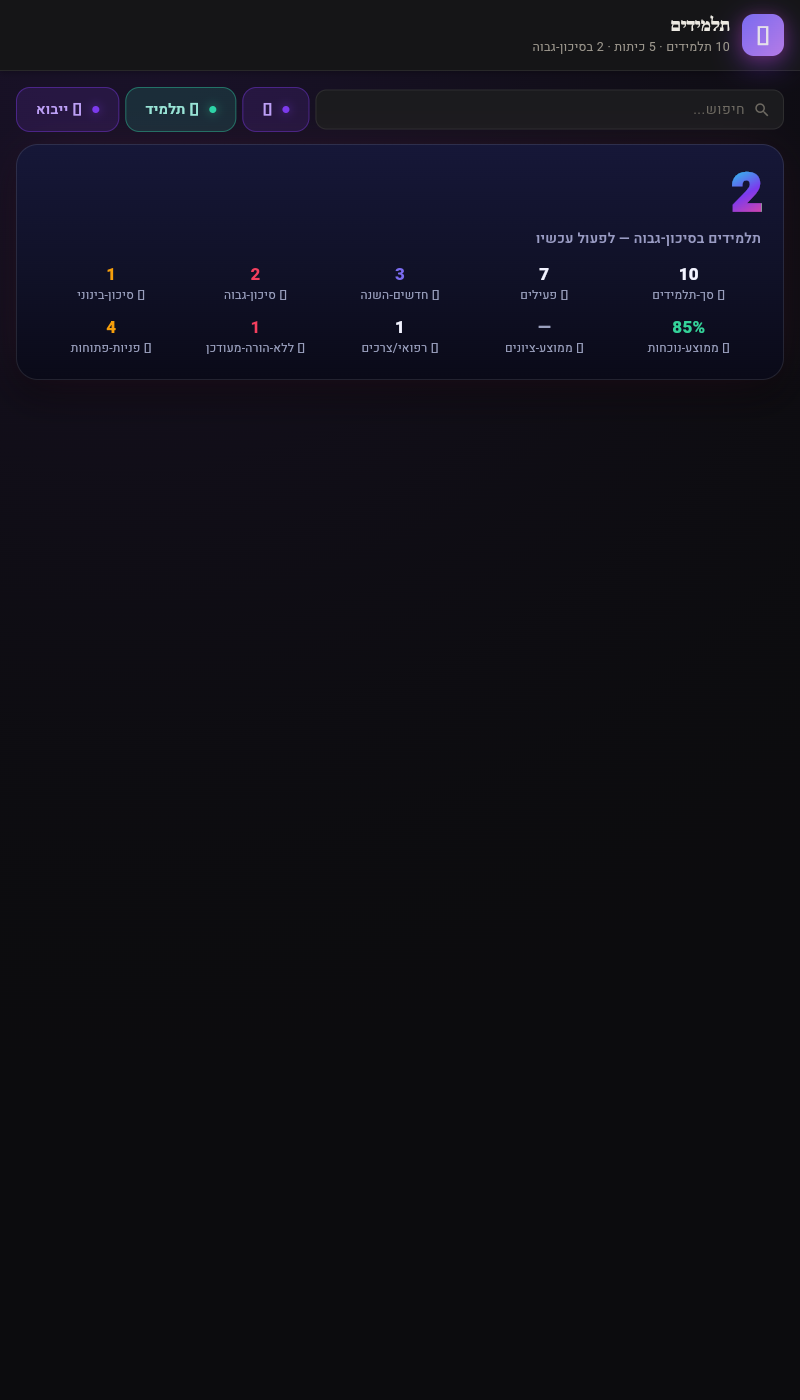
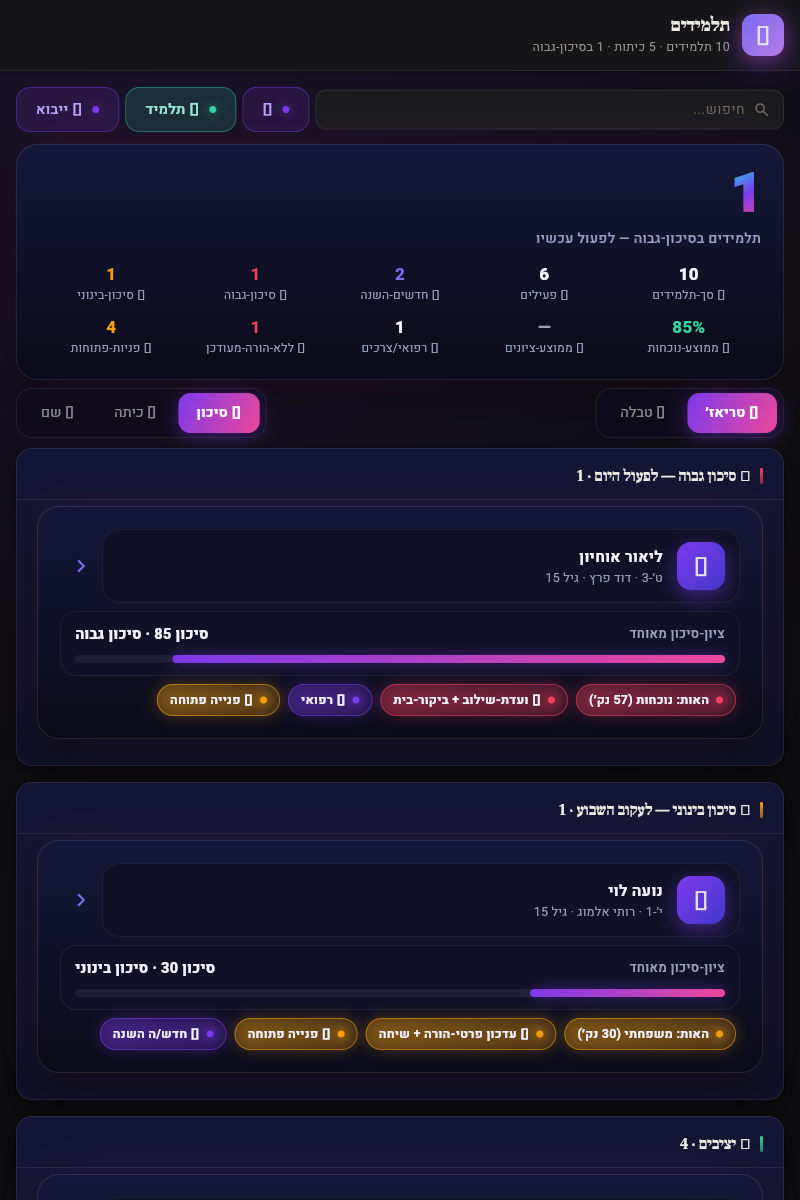
גל 2 · תלמידים · טריאז׳-לפי-סיכון + טבלה מונחית-חוזה (18 עמודות · מקום-שמור) + דירוג — DsSection⊕GradientCard⊕MediaRow⊕StatRow⊕StatusChip⊕DsTable⊕SegmentedSwitch · nameSortKey⊕gradeIndex⊕normSearch
תיקוני-רנדר (THE-WAY §6, נתפסו בצילום ולא בקומפילציה): רשומת-המתנה (wait) נספרה כפעילה ⇒ סטטוס 'ממתין/ה' לארכיון ·
אות-נוכחות על 3 מפגשים נתן 40 נק׳ מחיסור-אחד ⇒ minSample=5. columnDefs: photo·grades = מקום-שמור (מאירים כשיגיע נתון).

Claude-Session: https://claude.ai/code/session_01TxEB6UJGSPpcuzhChbuNDK

Protocol-Ran: 5f853626afea2eae

diff --git a/new/dart-gen-bs/schoolos_students.dart b/new/dart-gen-bs/schoolos_students.dart
@@ -26,6 +26,14 @@ import '../dart-maor/task-overdue.dart'; // משימה באיחור (WorkTask.du
 import '../dart-maor/cockpit-days-since.dart'; // ימים-מאז (iso→today)
 import '../dart-maor/format-israeli-phone.dart'; // טלפון-הורה מעוצב
 import '../dart-maor/fmt-date.dart'; // תאריך dd/mm/yyyy
+import '../dart-ui-bs/ds/ds_table.dart'; // טבלה-אמיתית (labels+rows, מיון-בלחיצה) — לא DataGrid המזייף
+import '../dart-ui-bs/premium/actions/segmented_switch.dart'; // בורר-מבט/מיון מבוקר
+import '../dart-ui-bs/premium/lists/media_row.dart'; // שורת-תלמיד: glyph+title+subtitle
+import '../dart-ui-bs/premium/lists/stat_row.dart'; // בר-סיכון: label+value+fraction
+import '../dart-ui-bs/premium/feedback/status_chip.dart'; // שבב: אות-מוביל · פעולה · דגל · סטטוס
+import '../dart-ui-bs/premium/feedback/empty_state.dart'; // מצב "אין-תלמידים/אין-תוצאות"
+import '../dart-maor/name-sort-key.dart'; // מיון-לפי-שם (מנורמל, בלי תארים)
+import '../dart-maor/norm-search.dart'; // נרמול-עברי (סופיות/ניקוד) — שקע ל-nameSortKey ולחיפוש
 
 const _acc = DsTokens.accent;
 // פיגמנטים מוזרקים לאטומי-מדף טהורים (חוק-6: צבע=הצבה, לא ציור)
@@ -236,6 +244,7 @@ class _StuData {
     final st = e['status'];
     if (st == 'paused') return 'הוקפא';
     if (st == 'ended') return s['grade'] == 'יב' ? 'בוגר' : 'עזב';
+    if (st == 'wait') return 'ממתין/ה'; // רשימת-המתנה (Enrollment.status=wait) — עדיין לא תלמיד/ה פעיל/ה
     return 'פעיל';
   }
   static bool isActive(Map<String, dynamic> s) => status(s) == 'פעיל';
@@ -298,9 +307,10 @@ class _StuData {
   //   אותות עם מקור-אמת: נוכחות (presents/absences) · מגמה (trendFromScan) · משפחתי (Family+WorkTask).
   //   מקום-שמור (אפס-זיוף): ציונים (s['grades'] מפה מקצוע⇒ציון) · התנהגות (s['behavior'] אירועים/חודש) · חברתי-רגשי (s['social'] 0..1).
   //   כשיגיע נתון לרשומה — האות מאיר לבד, אפס-שינוי-קוד (מבחן-הקונכייה).
+  static const minSample = 5; // אות-נוכחות דורש ≥5 מפגשים (נתפס ברנדר: תלמידה חדשה עם 3 מפגשים קיבלה 40 נק׳ מחיסור-אחד)
   static double? _attN(Map<String, dynamic> s) {
     final r = attendance(s);
-    if (r == null) return null;
+    if (r == null || presents(s) + absences(s) < minSample) return null;
     final base = clampScale((0.92 - r) / 0.25, 0.0, 1.0).toDouble(); // <92% מתחיל לעלות · 67% = מלא
     final ns = noshow(s) >= 2 ? 0.6 : 0.0; // אי-הופעות חוזרות = אות עצמאי
     return base > ns ? base : ns;
@@ -394,6 +404,71 @@ class _StuData {
   static List<List<Object>> byClass() => countBy(active, (s) => className(s as Map<String, dynamic>));
   static int daysSince(String iso) => cockpitDaysSince(iso, today).toInt();
   static String fmt(String? iso) => fmtDate(iso);
+
+  // ─── מיון (איתור·דירוג): סיכון-יורד · כיתה (gradeIndex⊕שם-כיתה) · שם (nameSortKey⊕normSearch) ───
+  static const Map<String, String> _finals = {'k1': 'כ', 'k2': 'מ', 'k3': 'נ', 'k4': 'פ', 'k5': 'צ'};
+  static String norm(dynamic q) => normSearch(q, _finals);
+  static String sortKey(Map<String, dynamic> s) => nameSortKey(s['name'], norm, const <String>{});
+  static List<Map<String, dynamic>> sorted(List<Map<String, dynamic>> xs, int mode) {
+    final out = [...xs];
+    if (mode == 1) {
+      out.sort((a, b) { final c = gradeIdx(a).compareTo(gradeIdx(b)); return c != 0 ? c : className(a).compareTo(className(b)) != 0 ? className(a).compareTo(className(b)) : sortKey(a).compareTo(sortKey(b)); });
+    } else if (mode == 2) {
+      out.sort((a, b) => sortKey(a).compareTo(sortKey(b)));
+    } else {
+      out.sort((a, b) => risk(b).compareTo(risk(a)));
+    }
+    return out;
+  }
+
+  // ─── דגלים (מפרט: צרכים/רגישות/רפואי): רפואי ⇐ Member.health (מקור-אמת) · צרכים/רגישות ⇐ פנקס-דגלים (פעולה "הוסף-דגל") ───
+  static final Map<String, List<String>> flagLedger = {};
+  static List<String> flags(Map<String, dynamic> s) => [
+        if ('${s['health'] ?? ''}'.isNotEmpty) '🩺 רפואי',
+        ...(flagLedger[s['id']] ?? const []),
+        if (s['needs'] != null) '♿ צרכים', // מקום-שמור: שדה-צרכים ברשומה
+      ];
+  // עדכון-אחרון (נגזר מטבעת-האודיט: הרשומה האחרונה שמזכירה את התלמיד; אין updatedAt בסכמה)
+  static List<Map<String, dynamic>> audit() => (db['audit'] as List).cast<Map<String, dynamic>>();
+  static String lastUpdate(Map<String, dynamic> s) {
+    String best = '';
+    for (final a in audit()) { if ('${a['what']}'.startsWith('${s['id']} ') && '${a['at']}'.compareTo(best) > 0) best = '${a['at']}'; }
+    return best.isEmpty ? '—' : fmt(best.substring(0, 10));
+  }
+  static String trendArrow(Map<String, dynamic> s) { final t = trend90(s); return t['dir'] == 'down' ? '↓ ${t['pct']}%' : t['dir'] == 'up' ? '↑ +${t['pct']}%' : '→'; }
+  static String maskId(String? id) => (id == null || id.isEmpty) ? '—' : '•••••${id.substring(id.length - 4)}'; // ת״ז מוסתרת (ברירת-מחדל; חשיפה = הרשאה)
+
+  // ═══ חוזה-עמודות · מקום-שמור (חוק-7 · מבחן-הקונכייה) — 18 עמודות-המפרט כשקעי-דאטה ═══
+  //   נגזרת(get) = תמיד-מוצגת · שדה(key) = מוארת רק כשרשומה כלשהי נושאת ערך (חסר ⇒ שקט). fmt = עיצוב-ערך אופציונלי.
+  //   הוספת שדה לרשומה (photo/grades/…) ⇒ העמודה מאירה לבד, אפס-שינוי-קוד.
+  static final List<Map<String, Object?>> columnDefs = <Map<String, Object?>>[
+    {'key': 'photo', 'label': 'תמונה'},                                                   // מקום-שמור (ImageProvider/URL)
+    {'label': 'שם-מלא', 'get': (Map<String, dynamic> s) => '${s['name']}'},
+    {'label': 'מס׳', 'get': (Map<String, dynamic> s) => '${s['id']}'},
+    {'label': 'ת״ז', 'get': (Map<String, dynamic> s) => maskId(s['idNum'] as String?)}, // מוסתר-פר-הרשאה
+    {'label': 'כיתה', 'get': (Map<String, dynamic> s) => className(s)},
+    {'label': 'מחנך/ת', 'get': (Map<String, dynamic> s) => teacherName(s)},
+    {'label': 'לידה/גיל', 'get': (Map<String, dynamic> s) => '${fmt(s['birth'] as String?)} · ${age(s) ?? '—'}'},
+    {'label': 'מין', 'get': (Map<String, dynamic> s) => s['gender'] == 'f' ? 'נ' : s['gender'] == 'm' ? 'ז' : '—'},
+    {'label': 'סטטוס', 'get': (Map<String, dynamic> s) => status(s)},
+    {'label': 'סיכון', 'get': (Map<String, dynamic> s) => '${risk(s)}'},
+    {'label': 'נוכחות%', 'get': (Map<String, dynamic> s) => attendance(s) == null ? '—' : '${attendancePct(s)}'},
+    {'key': 'grades', 'label': 'ממוצע-ציונים', 'fmt': (Object? g) => g is Map && g.isNotEmpty ? '${(grandTotal(g.values.toList(), (v) => v as num) / g.length).round()}' : '—'}, // מקום-שמור
+    {'label': 'מגמה', 'get': (Map<String, dynamic> s) => trendArrow(s)},
+    {'label': 'דגלים', 'get': (Map<String, dynamic> s) => flags(s).isEmpty ? '—' : flags(s).join(' ')},
+    {'label': 'הורה+טלפון', 'get': (Map<String, dynamic> s) => parentMissing(s) ? '${parentName(s)} · ⛔ אין טלפון' : '${parentName(s)} · ${parentPhone(s)}'},
+    {'label': 'הצטרפות', 'get': (Map<String, dynamic> s) => fmt(mainEnrollment(s)?['enrolledAt'] as String?)},
+    {'label': 'פנייה-פתוחה', 'get': (Map<String, dynamic> s) => hasOpenTicket(s) ? '📨 ${openTasksOf(s).length}' : '—'},
+    {'label': 'עדכון-אחרון', 'get': (Map<String, dynamic> s) => lastUpdate(s)},
+  ];
+  static bool colShown(Map<String, Object?> c, List<Map<String, dynamic>> rows) =>
+      c['get'] != null || rows.any((s) => s[c['key']] != null && '${s[c['key']]}'.trim().isNotEmpty);
+  static String cell(Map<String, Object?> c, Map<String, dynamic> s) {
+    if (c['get'] != null) return (c['get'] as String Function(Map<String, dynamic>))(s);
+    final v = s[c['key']];
+    if (c['fmt'] != null) return (c['fmt'] as String Function(Object?))(v);
+    return v == null ? '—' : '$v';
+  }
 }
 
 // ═══════════════════════════════════════════════════════════════════════════════════════════
@@ -406,6 +481,8 @@ class StudentsScreen extends StatefulWidget {
 
 class _StudentsScreenState extends State<StudentsScreen> {
   String _q = ''; // איתור (DsSearch)
+  int _mode = 0; // 0=🎯 טריאז' (קיבוץ-פר-סיכון) · 1=📋 טבלה (columnDefs) — SegmentedSwitch→תצוגה
+  int _sort = 0; // 0=סיכון · 1=כיתה · 2=שם — SegmentedSwitch→דירוג
   bool _loading = false; // מצב-מסך שמור: טעינה
   String? _error; // מצב-מסך שמור: שגיאה (מקום-שמור — מאיר כש-fetch נכשל)
 
@@ -421,6 +498,11 @@ class _StudentsScreenState extends State<StudentsScreen> {
   Widget build(BuildContext context) {
     final all = _StuData.active;
     final avgAtt = _StuData.avgAttendance, avgGr = _StuData.avgGrades;
+    // דירוג (מיון-נבחר) ⇒ הנראים (פעילים); לא-פעילים בסקשן-ארכיון נפרד
+    final visible = _StuData.sorted(all, _sort);
+    final inactiveVisible = _StuData.sorted(_StuData.inactive, _sort);
+    final buckets = <int, List<Map<String, dynamic>>>{2: [], 1: [], 0: []};
+    for (final s in visible) { buckets[_StuData.band(s)]!.add(s); }
     return DsScaffold(
       title: 'תלמידים', subtitle: '${_StuData.students.length} תלמידים · ${_StuData.byClass().length} כיתות · ${_StuData.highN} בסיכון-גבוה', icon: '🎓',
       children: [
@@ -457,13 +539,83 @@ class _StudentsScreenState extends State<StudentsScreen> {
           ]),
         ),
         _gap(8),
+        // בורר-מבט (🎯 טריאז' · 📋 טבלה) + בורר-דירוג (סיכון · כיתה · שם) — ארגון = פעולת-יסוד עם אטום משלה
+        Row(children: [
+          SegmentedSwitch(items: const ['🎯 טריאז׳', '📋 טבלה'], selected: _mode, onSelect: (i) => setState(() => _mode = i)),
+          const Spacer(),
+          SegmentedSwitch(items: const ['⚠ סיכון', '🏫 כיתה', '🔤 שם'], selected: _sort, onSelect: (i) => setState(() => _sort = i)),
+        ]),
+        _gap(10),
+        // מצבי-מסך שמורים (טעינה/שגיאה) ⇒ אחרת התוכן: ריק · טבלה · טריאז'
         if (_loading)
           _loadingView()
         else if (_error != null)
-          AlertBanner(glyph: '⚠', tone: 2, message: _error!),
+          AlertBanner(glyph: '⚠', tone: 2, message: _error!)
+        else if (_StuData.students.isEmpty)
+          const Padding(padding: EdgeInsets.only(top: 24), child: EmptyState(glyph: '🎓', message: 'אין תלמידים עדיין — רשום תלמיד ראשון או ייבא'))
+        else if (visible.isEmpty)
+          const Padding(padding: EdgeInsets.only(top: 24), child: EmptyState(glyph: '🔍', message: 'אין תלמידים תואמים לחיפוש/סינון'))
+        else if (_mode == 1)
+          _table(visible)
+        else ...[
+          // טריאז' — פעולת-יסוד "הכרעה" מקבצת פר-band (הדחוף בראש כקבוצה); בתוך כל דלי — סדר-הדירוג הנבחר
+          for (final b in const [2, 1, 0])
+            if (buckets[b]!.isNotEmpty)
+              DsSection(title: '${_secTitle[b]} · ${buckets[b]!.length}', tone: _secTone[b]!, children: [for (final s in buckets[b]!) _row(s)]),
+        ],
+        // מצב-מיוחד: לא-פעילים (הוקפא/עזב/בוגר) — מחוץ לתפעול, גלויים כארכיון
+        if (_mode == 0 && inactiveVisible.isNotEmpty) ...[
+          _gap(10),
+          DsSection(title: '🗂 לא-פעילים · ${inactiveVisible.length}', tone: 0, children: [for (final s in inactiveVisible) _row(s)]),
+        ],
       ],
     );
   }
+
+  static const _secTitle = {2: '🔴 סיכון גבוה — לפעול היום', 1: '🟠 סיכון בינוני — לעקוב השבוע', 0: '🟢 יציבים'};
+  static const _secTone = {2: 2, 1: 3, 0: 1};
+
+  // שורת-תלמיד (טריאז'): זהות (MediaRow) + בר-סיכון (StatRow) + האות-המוביל ⊕ הפעולה-הנכונה-עכשיו (StatusChip×2) + דגלים/סטטוס
+  //   MediaRow בולע קליק (InkWell פנימי) ⇒ כפתור-שברון נפרד כשקע-הפתיחה (לקח-המלאי).
+  Widget _row(Map<String, dynamic> s) {
+    final r = _StuData.risk(s), b = _StuData.band(s), active = _StuData.isActive(s);
+    final tone = b == 2 ? 2 : b == 1 ? 3 : 1;
+    final lead = _StuData.leading(s);
+    final glyph = !active ? '🗂' : b == 2 ? '🔴' : b == 1 ? '🟠' : '🟢';
+    return Padding(
+      padding: const EdgeInsets.only(bottom: 12),
+      child: GradientCard(
+        child: Column(crossAxisAlignment: CrossAxisAlignment.stretch, children: [
+          Row(children: [
+            Expanded(child: MediaRow(glyph: glyph, title: '${s['name']}', subtitle: '${_StuData.className(s)} · ${_StuData.teacherName(s)} · גיל ${_StuData.age(s) ?? '—'}')),
+            IconButton(onPressed: () => _openPanel(s), icon: const Icon(Icons.chevron_left, color: _acc, size: 26), tooltip: 'כרטיס-תלמיד'),
+          ]),
+          _gap(8),
+          StatRow(label: active ? 'ציון-סיכון מאוחד' : 'ציון-סיכון (ארכיון)', value: 'סיכון $r · ${_StuData.bandLabel(b)}', fraction: (r / 100).clamp(0.0, 1.0)),
+          Padding(
+            padding: const EdgeInsets.only(top: 8, right: 4),
+            child: Wrap(spacing: 8, runSpacing: 6, children: [
+              if (!active) StatusChip(label: _StuData.status(s), tone: 0),
+              if (active && b > 0 && lead != null) StatusChip(label: 'האות: ${lead['label']} (${(lead['contribution'] as double).round()} נק׳)', tone: tone),
+              StatusChip(label: '👉 ${_StuData.action(s)}', tone: active && b > 0 ? tone : 0),
+              for (final f in _StuData.flags(s)) StatusChip(label: f, tone: 0),
+              if (_StuData.hasOpenTicket(s)) StatusChip(label: '📨 פנייה פתוחה', tone: 3),
+              if (_StuData.parentMissing(s)) const StatusChip(label: '📵 ללא-הורה-מעודכן', tone: 2),
+              if (_StuData.isNew(s)) const StatusChip(label: '🆕 חדש/ה השנה', tone: 0),
+            ]),
+          ),
+        ]),
+      ),
+    );
+  }
+
+  // 📋 מבט-טבלה: DsTable מונחה-חוזה (columnDefs · מקום-שמור חוק-7). אפס-DataGrid (מזייף int rows).
+  Widget _table(List<Map<String, dynamic>> rows) {
+    final cols = [for (final c in _StuData.columnDefs) if (_StuData.colShown(c, rows)) c];
+    return DsTable(labels: [for (final c in cols) c['label'] as String], rows: [for (final s in rows) [for (final c in cols) _StuData.cell(c, s)]]);
+  }
+
+  void _openPanel(Map<String, dynamic> s) {} // גל 3: כרטיס-תלמיד-נבחר
 
   // רענון-דאטה → מצב-טעינה שמור (700ms מדגים; חיבור-אסינק אמיתי יאיר אותו זהה)
   void _refresh() {
